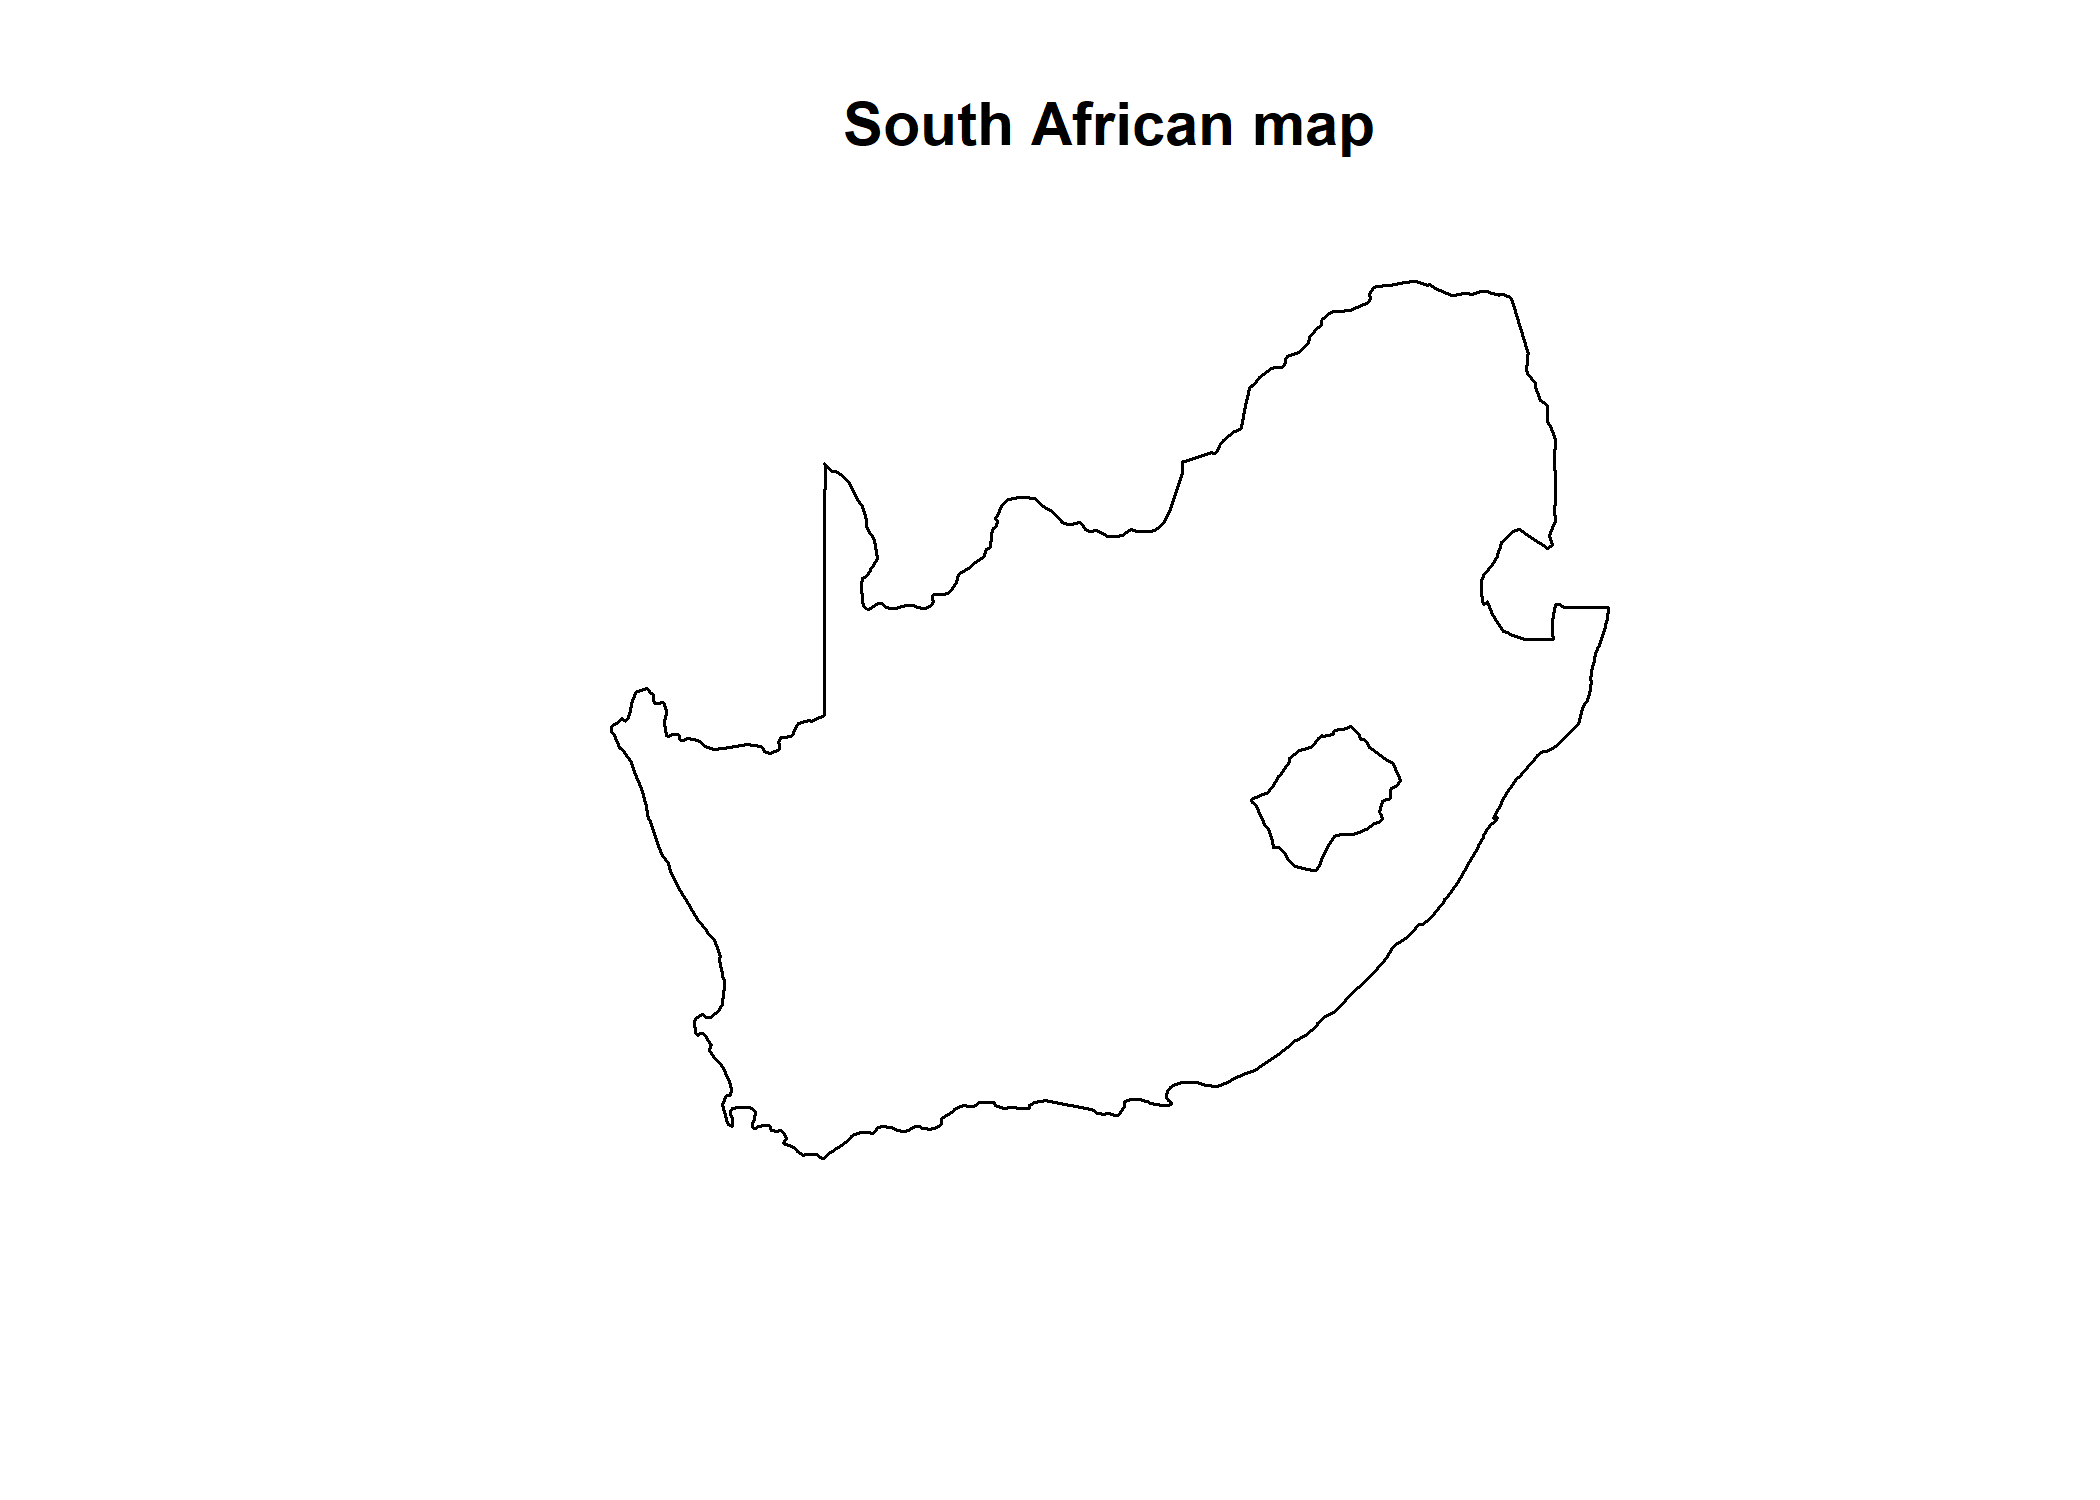
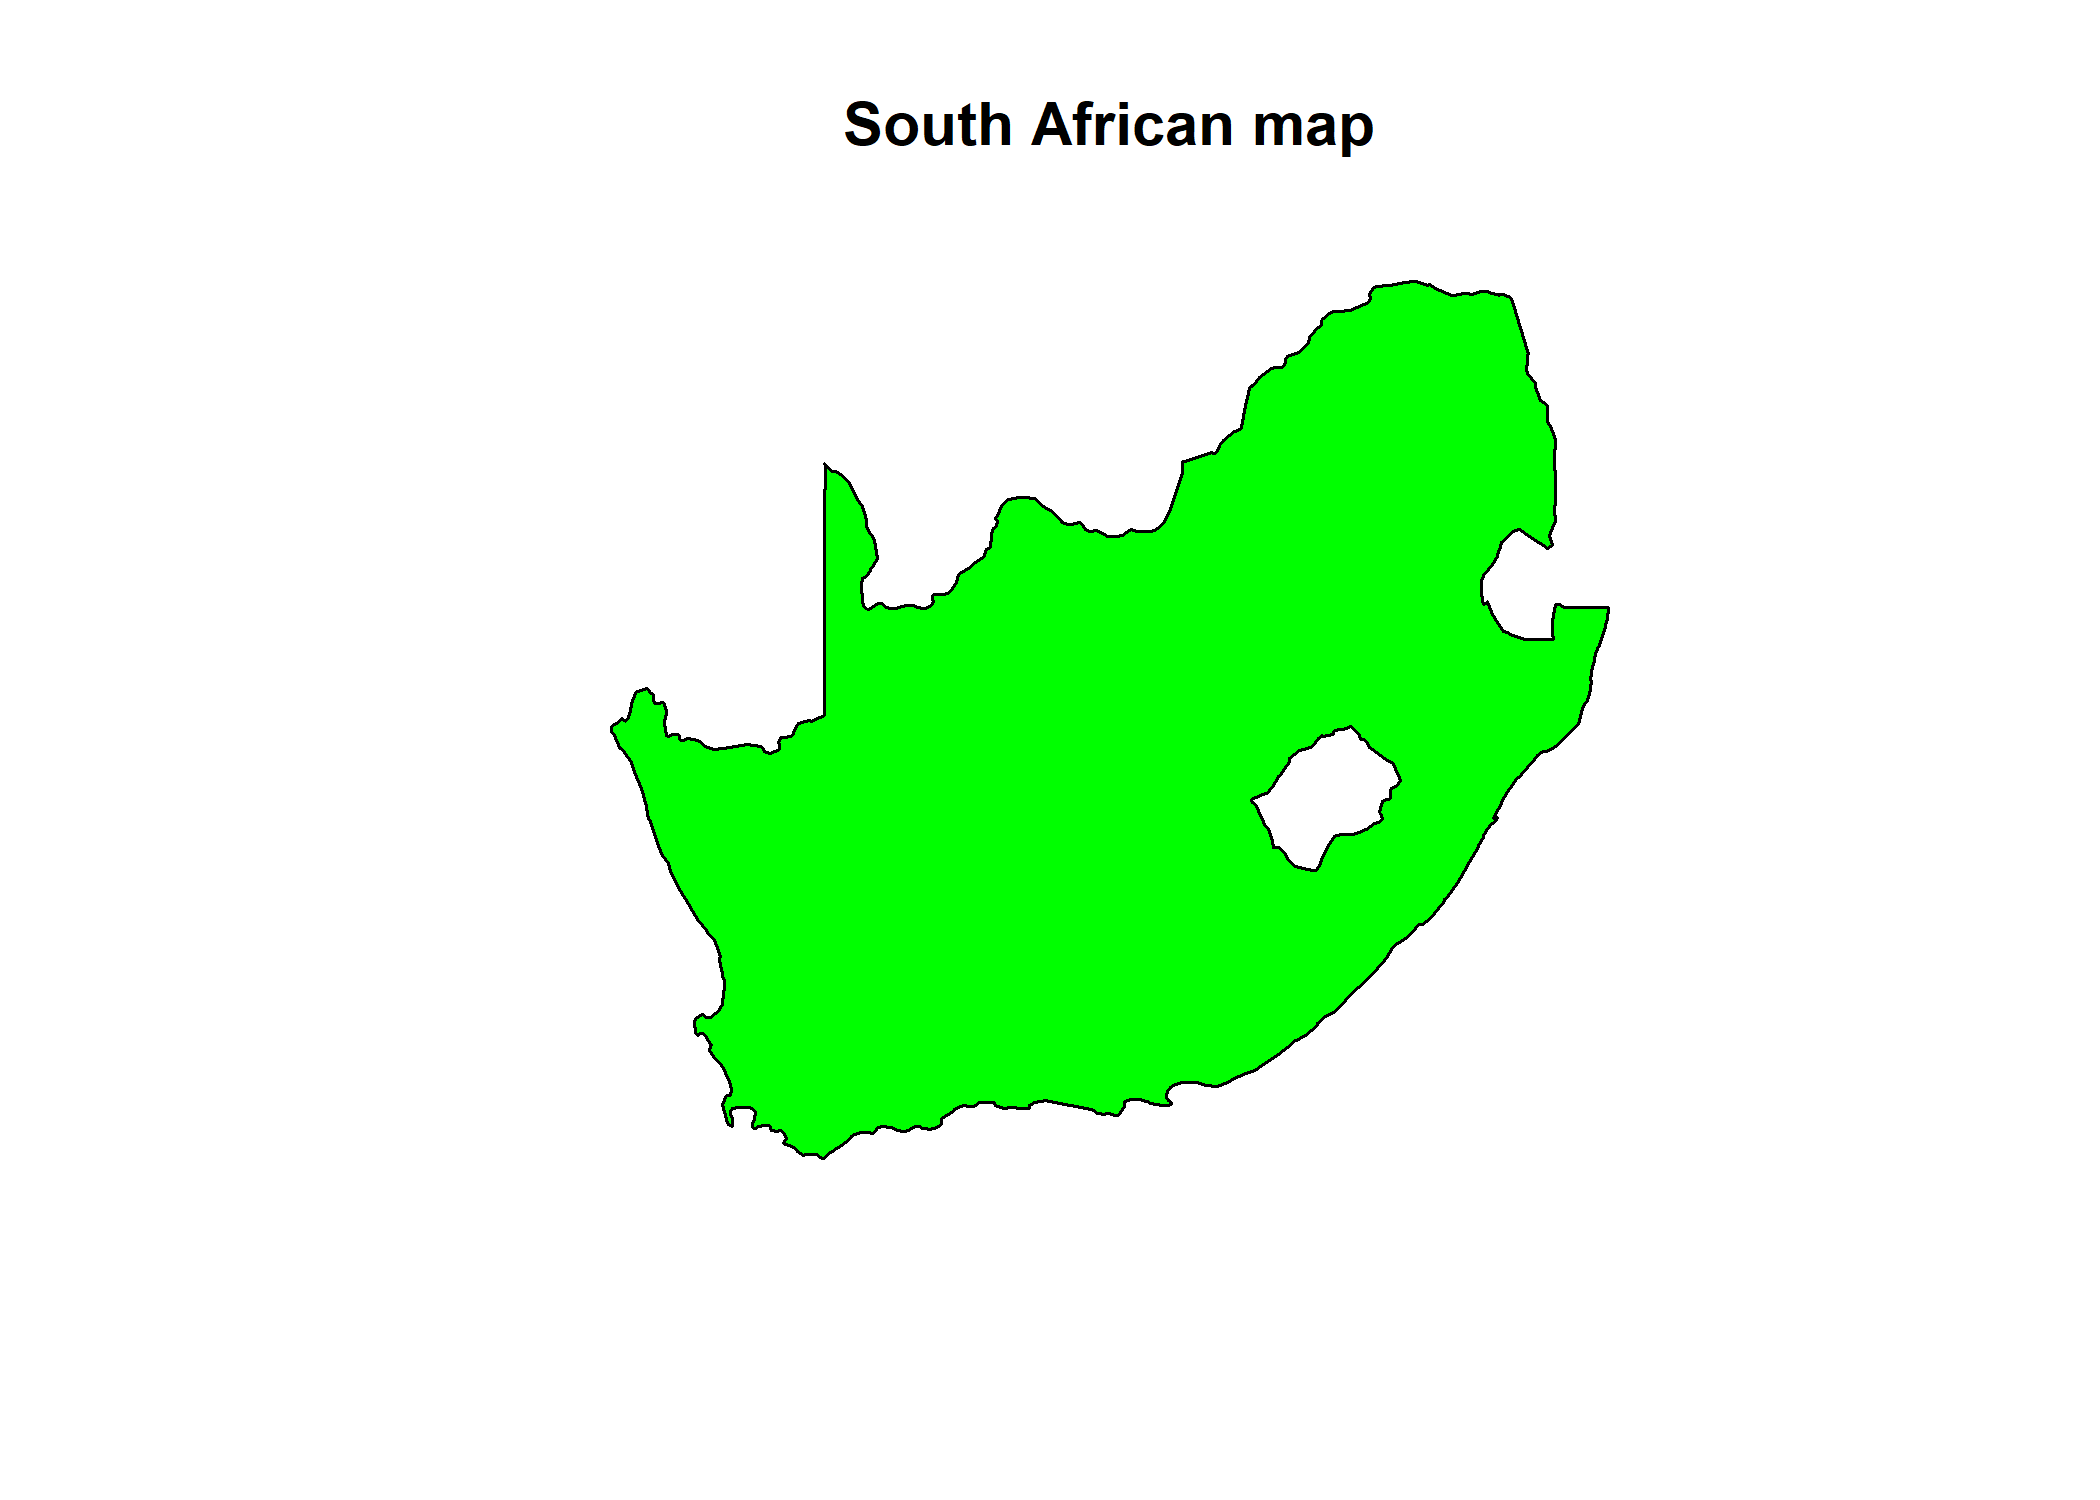
update description

Changed region(s): [[0.2786, 0.184, 0.7738, 0.7667]]

diff --git a/README.md b/README.md
@@ -9,10 +9,40 @@
 <!-- badges: end -->
 
 The goal of **impIndicator** is to allow users to seamlessly calculate
-and visualize the impact of alien taxa and individual species in a study
-area. Calculates and visualize impact per site as a map. Takes in GBIF
-occurrence data and EICAT assessment list. Enables user to choose from
-various methods of computing impact indicators from different studies.
+and visualise the impact of alien taxa and individual species in a given
+area. It calculates and visualises impact per site as a map. It takes in
+GBIF occurrence data and EICAT assessment list. It enables users to
+choose from various methods of calculating impact indicators based on
+different studies.  
+
+The impIndicator produces three main products and can be useful as
+stated below:  
+- **impact indicator**  
+The impact indicator offers a nuanced representation of the trends of
+biological invasions of an area (local, regional, or global scales). By
+tracking the increase and decrease of ecological threats over time, this
+product provides insights into the dynamics of invasive alien species
+impacts, helping assess whether current management practices are
+effective or need adjustment. The temporal analysis of impact indicator
+enables targeted resource allocation, fostering proactive interventions
+to mitigate biodiversity loss and ecosystem degradation.  
+- **site impact**  
+The site impact as a map serves as a visual and analytical tool to
+represent the intensity of biological invasions across different parts
+of an area. By enabling spatial comparisons—such as between provinces,
+states, or conservation areas—it highlights hotspots and areas at risk
+of invasion impact. This spatial data is useful for prioritising
+management actions, coordinating restoration projects, and fostering
+cross-regional collaboration to address invasive species impacts
+effectively.  
+- **species impact**  
+The species impact produces the trends of individual invasive alien
+species, enabling a species-specific impact caused by invasions. This
+data supports comparisons of individual species’ impacts, revealing
+their roles and interactions within invaded area. The species impact is
+invaluable for prioritising species-specific management efforts,
+informing eradication strategies, and advancing research on alien
+species’ ecological roles and adaptation patterns.
 
 ## Installation
 
@@ -26,7 +56,7 @@ remotes::install_github("b-cubed-eu/impIndicator")
 
 ## Demonstration
 
-This Markdown demonstrates the computation and visualization of impact
+This Markdown demonstrates the computation and visualisation of impact
 indicator of biological invasions using the `impact_indicator()` to
 compute impact indicator of alien taxa, the `species_impact()` to
 compute impact indicator per species, and the `site_impact()` to compute
@@ -54,21 +84,10 @@ library(tidyverse)   # Data wrangling and visualisation
 #> ℹ Use the conflicted package (<http://conflicted.r-lib.org/>) to force all conflicts to become errors
 library(sf)          # Spatial features
 #> Linking to GEOS 3.12.1, GDAL 3.8.4, PROJ 9.3.1; sf_use_s2() is TRUE
-
-
-# Source functions
-source("R/taxa_cube.R")
-source("R/impact_category.R")
-source("R/impact_indicator.R")
-source("R/species_impact.R")
-source("R/site_impact.R")
-source("R/helper-functions.R")
 ```
 
 ``` r
-# load the shapefile for study region
-load("data/southAfrica_sf.rda")
-plot(southAfrica_sf, main = "South African map")
+plot(southAfrica_sf, main = "South African map",col="green")
 ```
 
 <img src="man/figures/README-unnamed-chunk-2-1.png" width="100%" />
@@ -77,7 +96,7 @@ plot(southAfrica_sf, main = "South African map")
 
 ``` r
 # load the GBIF occurrence data for taxa
-load("data/taxa_Acacia.rda")
+
 acacia_cube<-taxa_cube(taxa=taxa_Acacia,
                     region=southAfrica_sf,
                     res=0.25,
@@ -138,7 +157,6 @@ for each species. The `impact_cat()` aggregates impact using ***max***,
 - ***max_mech***: sum of the maximum impact per mechanisms
 
 ``` r
-load("data/eicat_data.rda")
 full_species_list<-sort(unique(acacia_cube$cube$data$scientificName))
 
 agg_impact<-impact_cat(impact_data=eicat_data,
